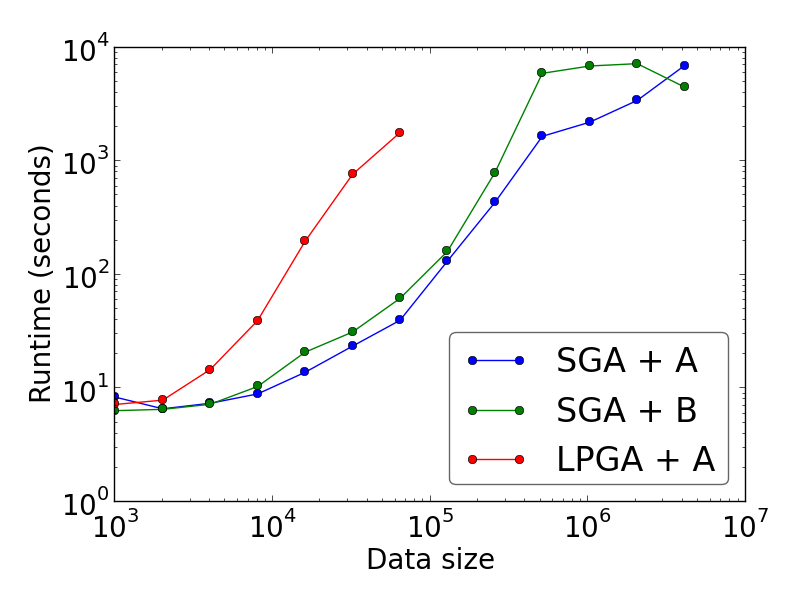
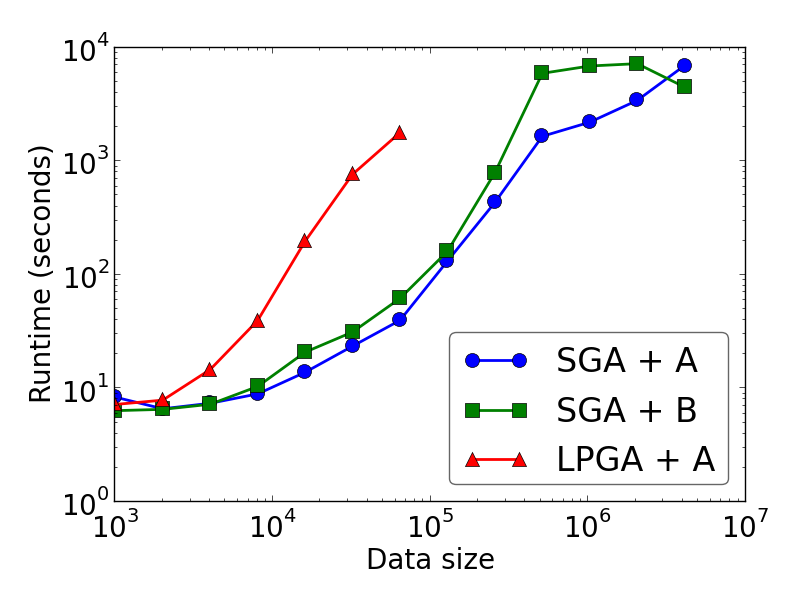
12a + 12b

diff --git a/code/graphs/cvlgraph.py b/code/graphs/cvlgraph.py
@@ -18,187 +18,194 @@ from datetime import timedelta
 
 __author__ = 'kostas'
 
+colors = ['c', 'r', 'g', 'b', 'm', 'y']
+symbols = ['o', 's', '^', 'd']
 
 class Scalability(object):
 
-    def __init__(self, traces):
-        self.traces = traces
-        self.ds_name = [trace.input_table for trace in traces][0]
+	def __init__(self, traces):
+		self.traces = traces
+		self.ds_name = [trace.input_table for trace in traces][0]
 
-    def write_out(self):
-        to_label = lambda key: \
-            ('SGA' if key[0][0] == 'h' else 'LPGA') + (' + A' if key[1][0] == 'c' else ' + B')
+	def write_out(self):
+		to_label = lambda key: \
+			('SGA' if key[0][0] == 'h' else 'LPGA') + (' + A' if key[1][0] == 'c' else ' + B')
 
-        x_formatter = lambda x, pos: 'foo'
-        # series for group by (table, constraint, solver)
-        sizes = set()
-        series = {}
-        for trace in self.traces:
-            key = (trace.solver,trace.constraints)
-            series.setdefault(key, {})[trace.inputstats['total_recs']] = trace.duration
+		x_formatter = lambda x, pos: 'foo'
+		# series for group by (table, constraint, solver)
+		sizes = set()
+		series = {}
+		for trace in self.traces:
+			key = (trace.solver,trace.constraints)
+			series.setdefault(key, {})[trace.inputstats['total_recs']] = trace.duration
 
-        for key, serie in series.items():
-            sizes = sizes.union([size for size in sorted(serie)])
-            x = [size for size in sorted(serie)]
-            y = [serie[size].total_seconds() for size in sorted(serie)]
-            plt.loglog(x, y, 'o-', label=to_label(key))
-        leg = plt.legend(loc='best',fancybox=True)
-        leg.get_frame().set_alpha(0.6)
-        plt.xlabel('Data size')
-        plt.ylabel('Runtime (seconds)')
-        filename = os.path.join(output_dir, "scal_{0:s}.png".format(self.ds_name))
-        plt.tight_layout()
-        plt.savefig(filename)
-        plt.clf()
-        print "Writing figure to {0:s}".format(filename)
-        #plt.show()
+		i = 0
+		j = 0
+		for key, serie in series.items():
+			sizes = sizes.union([size for size in sorted(serie)])
+			x = [size for size in sorted(serie)]
+			y = [serie[size].total_seconds() for size in sorted(serie)]
+			plt.loglog(x, y, colors[j]+symbols[i]+'-', linewidth=2, markersize=10,label=to_label(key))
+			#plt.loglog(x, y, symbols[i]+'-', linewidth=2, markersize=10,label=to_label(key))
+			i = (i + 1) % len(symbols)
+			j = (j + 1) % len(colors)
+		leg = plt.legend(loc='best',fancybox=True)
+		leg.get_frame().set_alpha(0.6)
+		plt.xlabel('Data size')
+		plt.ylabel('Runtime (seconds)')
+		filename = os.path.join(output_dir, "scal_{0:s}.png".format(self.ds_name))
+		plt.tight_layout()
+		plt.savefig(filename)
+		plt.clf()
+		print "Writing figure to {0:s}".format(filename)
+		#plt.show()
 
 
 class Stack(object):
 
-    def __init__(self, trace):
-        self.trace = trace
+	def __init__(self, trace):
+		self.trace = trace
 
-    def write_out(self):
-        fig = plt.figure()
-        ax1 = fig.add_subplot(111)
+	def write_out(self):
+		fig = plt.figure()
+		ax1 = fig.add_subplot(111)
 
-        width = .8
-        zoom_levels = list(reversed(range(len(trace.levels))))
-        dtype = [('tasks', 'S16')] + [('', np.float32)]*len(zoom_levels)
+		width = .8
+		zoom_levels = list(reversed(range(len(trace.levels))))
+		dtype = [('tasks', 'S16')] + [('', np.float32)]*len(zoom_levels)
 
-        initialize = ['Initialize']
-        find_c = ['Find conflicts']
-        resolve_c = ['Solve']
-        finalize = ['Finalize']
-        for level in self.trace.levels:
-            initialize.append(level['timing']['initialized_level'].total_seconds())
-            find_c.append(level['timing']['found_conflicts'].total_seconds())
-            resolve_c.append(level['timing']['resolved_conflicts'].total_seconds())
-            finalize.append(level['timing']['finalized_level'].total_seconds())
+		initialize = ['Initialize']
+		find_c = ['Find conflicts']
+		resolve_c = ['Solve']
+		finalize = ['Finalize']
+		for level in self.trace.levels:
+			initialize.append(level['timing']['initialized_level'].total_seconds())
+			find_c.append(level['timing']['found_conflicts'].total_seconds())
+			resolve_c.append(level['timing']['resolved_conflicts'].total_seconds())
+			finalize.append(level['timing']['finalized_level'].total_seconds())
 
-        y = np.array([
-            tuple(initialize),
-            tuple(find_c),
-            tuple(resolve_c),
-            tuple(finalize)
-            ],dtype=dtype)
-        y = y.view(np.dtype([('tasks','S16'), ('data', np.float32, len(zoom_levels))]))
-        data = y['data']
-        tasks = y['tasks']
-        bottom = np.zeros(len(zoom_levels))
-        for i in range(len(data)):
-            bt = ax1.bar(range(len(data[i])), data[i], width=width,
-                         color=cm.hsv(24*i), label=tasks[i],
-                         bottom=bottom)
-            bottom += data[i]
-        plt.xticks(np.arange(len(zoom_levels)) + (width/2),
-                   [int(zoom) for zoom in zoom_levels])
-        ax1.set_xlabel('Zoom')
-        ax1.set_ylabel('Runtime (seconds)')
-        if len(self.trace.constraints) == 30:
-            constr = 'AB'
-        elif self.trace.constraints.startswith('cell'):
-            constr = 'A'
-        else:
-            constr = 'B'
-        #plt.title('{0:s}: {1:s} + {2:s}'.format(
-        #    self.trace.input_table,
-        #    self.trace.solver,
-        #    constr))
-        ax2 = ax1.twinx()
+		y = np.array([
+			tuple(initialize),
+			tuple(find_c),
+			tuple(resolve_c),
+			tuple(finalize)
+			],dtype=dtype)
+		y = y.view(np.dtype([('tasks','S16'), ('data', np.float32, len(zoom_levels))]))
+		data = y['data']
+		tasks = y['tasks']
+		bottom = np.zeros(len(zoom_levels))
+		for i in range(len(data)):
+			bt = ax1.bar(range(len(data[i])), data[i], width=width,
+						 color=cm.hsv(24*i), label=tasks[i],
+						 bottom=bottom)
+			bottom += data[i]
+		plt.xticks(np.arange(len(zoom_levels)) + (width/2),
+				   [int(zoom) for zoom in zoom_levels])
+		ax1.set_xlabel('Zoom')
+		ax1.set_ylabel('Runtime (seconds)')
+		if len(self.trace.constraints) == 30:
+			constr = 'AB'
+		elif self.trace.constraints.startswith('cell'):
+			constr = 'A'
+		else:
+			constr = 'B'
+		#plt.title('{0:s}: {1:s} + {2:s}'.format(
+		#	 self.trace.input_table,
+		#	 self.trace.solver,
+		#	 constr))
+		ax2 = ax1.twinx()
 
-        ax2.plot(range(len(zoom_levels)), [level['levelstats']['num_c'] for level in trace.levels], 'o-', linewidth=2,
-                 c="black")
-        #ax2.set_ylabel('conflicts')
+		ax2.plot(range(len(zoom_levels)), [level['levelstats']['num_c'] for level in trace.levels], 'o-', linewidth=2,
+				 c="black")
+		#ax2.set_ylabel('conflicts')
 
-        if trace.input_table == 'pnt_7k_airports':
-            leg = ax1.legend(loc='upper left', fancybox=True)
-        else:
-            leg = ax1.legend(loc='upper right',fancybox=True)
+		if trace.input_table == 'pnt_7k_airports':
+			leg = ax1.legend(loc='upper left', fancybox=True)
+		else:
+			leg = ax1.legend(loc='upper right',fancybox=True)
 
 
-        leg.get_frame().set_alpha(0.6)
-        #plt.gca().yaxis.set_major_formatter(FuncFormatter(billions))
+		leg.get_frame().set_alpha(0.6)
+		#plt.gca().yaxis.set_major_formatter(FuncFormatter(billions))
 
-        filename = os.path.join(output_dir, "prelim_{0:s}_{1:s}_{2:s}.png".format(
-            #re.sub(r'[\[\]]', '', trace.name)))
-            self.trace.input_table,
-            self.trace.solver,
-            constr))
-        print "Writing figure to {0:s}".format(filename)
-        #plt.subplots_adjust(left=-2.4)
-        plt.tight_layout()
-        plt.savefig(filename)
-        plt.clf()
+		filename = os.path.join(output_dir, "prelim_{0:s}_{1:s}_{2:s}.png".format(
+			#re.sub(r'[\[\]]', '', trace.name)))
+			self.trace.input_table,
+			self.trace.solver,
+			constr))
+		print "Writing figure to {0:s}".format(filename)
+		#plt.subplots_adjust(left=-2.4)
+		plt.tight_layout()
+		plt.savefig(filename)
+		plt.clf()
 
 
 class OptimalityRatio(object):
 
-    def __init__(self, trace):
-        self.solution = 0
-        self.lowerbound = 0
-        self.numlevels = len(trace.levels)
-        for level in trace.levels:
-            self.solution += (level['levelstats']['rank_lost'])
-            self.lowerbound += (level['levelstats']['lp_bound'])
+	def __init__(self, trace):
+		self.solution = 0
+		self.lowerbound = 0
+		self.numlevels = len(trace.levels)
+		for level in trace.levels:
+			self.solution += (level['levelstats']['rank_lost'])
+			self.lowerbound += (level['levelstats']['lp_bound'])
 
-    def get_lowerbound(self):
-        return self.lowerbound
+	def get_lowerbound(self):
+		return self.lowerbound
 
-    def get_solution(self):
-        return self.solution
+	def get_solution(self):
+		return self.solution
 
-    def get_ratio(self):
-        return (self.solution / float(self.numlevels)) / (float(self.lowerbound) / self.numlevels)
+	def get_ratio(self):
+		return (self.solution / float(self.numlevels)) / (float(self.lowerbound) / self.numlevels)
 
 
 if __name__ == '__main__':
-    usage = "usage: %prog [options] tracefile"
-    parser = OptionParser(usage=usage)
-    parser.add_option("-g", "--graph", default="print",
-                      help="Type of graph to produce: stack(default), scalability")
+	usage = "usage: %prog [options] tracefile"
+	parser = OptionParser(usage=usage)
+	parser.add_option("-g", "--graph", default="print",
+					  help="Type of graph to produce: stack(default), scalability")
 
-    (options, args) = parser.parse_args()
-    if len(args) == 0:
-        parser.print_help()
-        sys.exit(1)
+	(options, args) = parser.parse_args()
+	if len(args) == 0:
+		parser.print_help()
+		sys.exit(1)
 
-    matplotlib.rcParams.update({'font.size': 20})
+	matplotlib.rcParams.update({'font.size': 20})
 
-    output_dir = os.path.join(os.path.dirname(os.path.realpath(__file__)), '..','..','results','figures')
-    output_dir = os.path.realpath(output_dir)
+	output_dir = os.path.join(os.path.dirname(os.path.realpath(__file__)), '..','..','results','figures')
+	output_dir = os.path.realpath(output_dir)
 
-    tr = TraceReader(args[0])
+	tr = TraceReader(args[0])
 
-    if options.graph == 'print':
-        for trace in tr.get_traces():
-            optratio = OptimalityRatio(trace)
-            analysis_time = reduce(lambda x, y: x+y,
-                                   [level['timing']['levelstats'] for level in trace.levels],
-                                   timedelta(0))
+	if options.graph == 'print':
+		for trace in tr.get_traces():
+			optratio = OptimalityRatio(trace)
+			analysis_time = reduce(lambda x, y: x+y,
+								   [level['timing']['levelstats'] for level in trace.levels],
+								   timedelta(0))
 
-            print trace.name, \
-                ' ' * (53 - len(trace.name)), \
-                trace.duration, \
-                ' ' * 4, (trace.duration - analysis_time), \
-                ' ' * 4, 'opt ratio:', optratio.get_ratio() if optratio.lowerbound > 0 else 'unknown'
+			print trace.name, \
+				' ' * (53 - len(trace.name)), \
+				trace.duration, \
+				' ' * 4, (trace.duration - analysis_time), \
+				' ' * 4, 'opt ratio:', optratio.get_ratio() if optratio.lowerbound > 0 else 'unknown'
 
-    elif options.graph == 'print_nostat':
-        for trace in tr.get_traces():
-            print trace.name, \
-                trace.duration
+	elif options.graph == 'print_nostat':
+		for trace in tr.get_traces():
+			print trace.name, \
+				trace.duration
 
-    elif options.graph == 'stack':
-        for trace in tr.get_traces():
-            chart = Stack(trace)
-            chart.write_out()
+	elif options.graph == 'stack':
+		for trace in tr.get_traces():
+			chart = Stack(trace)
+			chart.write_out()
 
-    elif options.graph == 'scala':
-        chart = Scalability(tr.get_traces())
-        chart.write_out()
-    else:
-        print 'unknown chart type'
+	elif options.graph == 'scala':
+		chart = Scalability(tr.get_traces())
+		chart.write_out()
+	else:
+		print 'unknown chart type'
 
 
 
